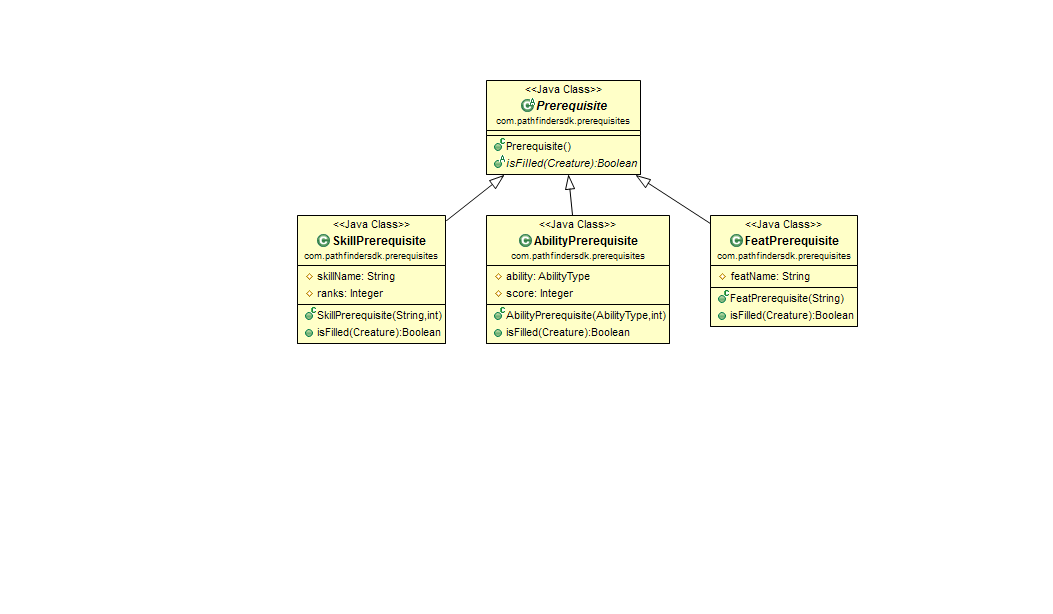
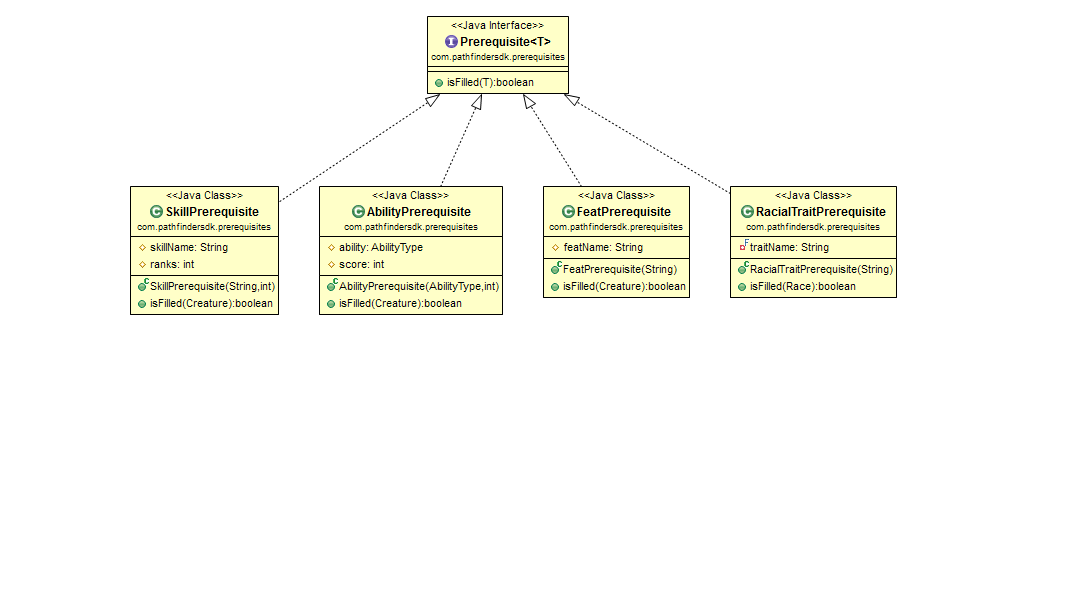
Changed Prerequisite into a generic interface

Changed region(s): [[0.1216, 0.0, 0.6382, 0.5879], [0.6686, 0.2785, 0.8205, 0.557]]

diff --git a/src/com/pathfindersdk/prerequisites/AbilityPrerequisite.java b/src/com/pathfindersdk/prerequisites/AbilityPrerequisite.java
@@ -6,7 +6,7 @@ import com.pathfindersdk.enums.AbilityType;
 /**
  * This class requires a character to have an ability score (AbilityStat) at a specific value or higher (ex: Dodge feat requires Dex 13).
  */
-public class AbilityPrerequisite extends Prerequisite<Creature>
+public class AbilityPrerequisite implements Prerequisite<Creature>
 {
   protected AbilityType ability;
   protected int score;
@@ -18,7 +18,7 @@ public class AbilityPrerequisite extends Prerequisite<Creature>
   }
   
   @Override
-  public boolean isFilled(Creature creature)
+  public boolean isFilled(Creature target)
   {
     /*AbilityStat abilityScore = creature.getAbility(ability);
     if(abilityScore != null && abilityScore.getScore() >= score)

diff --git a/src/com/pathfindersdk/prerequisites/SkillPrerequisite.java b/src/com/pathfindersdk/prerequisites/SkillPrerequisite.java
@@ -5,7 +5,7 @@ import com.pathfindersdk.creatures.Creature;
 /**
  * This class requires a creature to have a skill (SkillStat) at a specific rank or higher (ex: Mounted Combat requires Ride 1).
  */
-public class SkillPrerequisite extends Prerequisite<Creature>
+public class SkillPrerequisite implements Prerequisite<Creature>
 {
   
   protected String skillName;
@@ -18,7 +18,7 @@ public class SkillPrerequisite extends Prerequisite<Creature>
   }
 
   @Override
-  public boolean isFilled(Creature creature)
+  public boolean isFilled(Creature target)
   {
     /*SkillStat skill = creature.getSkill(skillName);
     if(skill != null && skill.getBaseScore() >= ranks)

diff --git a/src/com/pathfindersdk/prerequisites/FeatPrerequisite.java b/src/com/pathfindersdk/prerequisites/FeatPrerequisite.java
@@ -5,7 +5,7 @@ import com.pathfindersdk.creatures.Creature;
 /**
  * This class requires a creature to have a specific feat (ex: Mobility requires Dodge).
  */
-public class FeatPrerequisite extends Prerequisite<Creature>
+public class FeatPrerequisite implements Prerequisite<Creature>
 {
   
   protected String featName;
@@ -16,7 +16,7 @@ public class FeatPrerequisite extends Prerequisite<Creature>
   }
 
   @Override
-  public boolean isFilled(Creature creature)
+  public boolean isFilled(Creature target)
   {
     /*Feat feat = creature.getFeat(featName);
     if(feat != null)

diff --git a/src/com/pathfindersdk/prerequisites/RacialTraitPrerequisite.java b/src/com/pathfindersdk/prerequisites/RacialTraitPrerequisite.java
@@ -7,7 +7,7 @@ import com.pathfindersdk.features.Race;
 /**
  * This class requires a race to have a specific racial trait.
  */
-final public class RacialTraitPrerequisite extends Prerequisite<Race>
+final public class RacialTraitPrerequisite implements Prerequisite<Race>
 {
   final private String traitName;
   

diff --git a/src/com/pathfindersdk/prerequisites/Prerequisite.java b/src/com/pathfindersdk/prerequisites/Prerequisite.java
@@ -1,10 +1,11 @@
 package com.pathfindersdk.prerequisites;
 
 
+
 /**
  * This class is a generic prerequisite a character has to fill.
  */
-public abstract class Prerequisite<T>
+public interface Prerequisite<T>
 {
   public abstract boolean isFilled(T target);
 }
